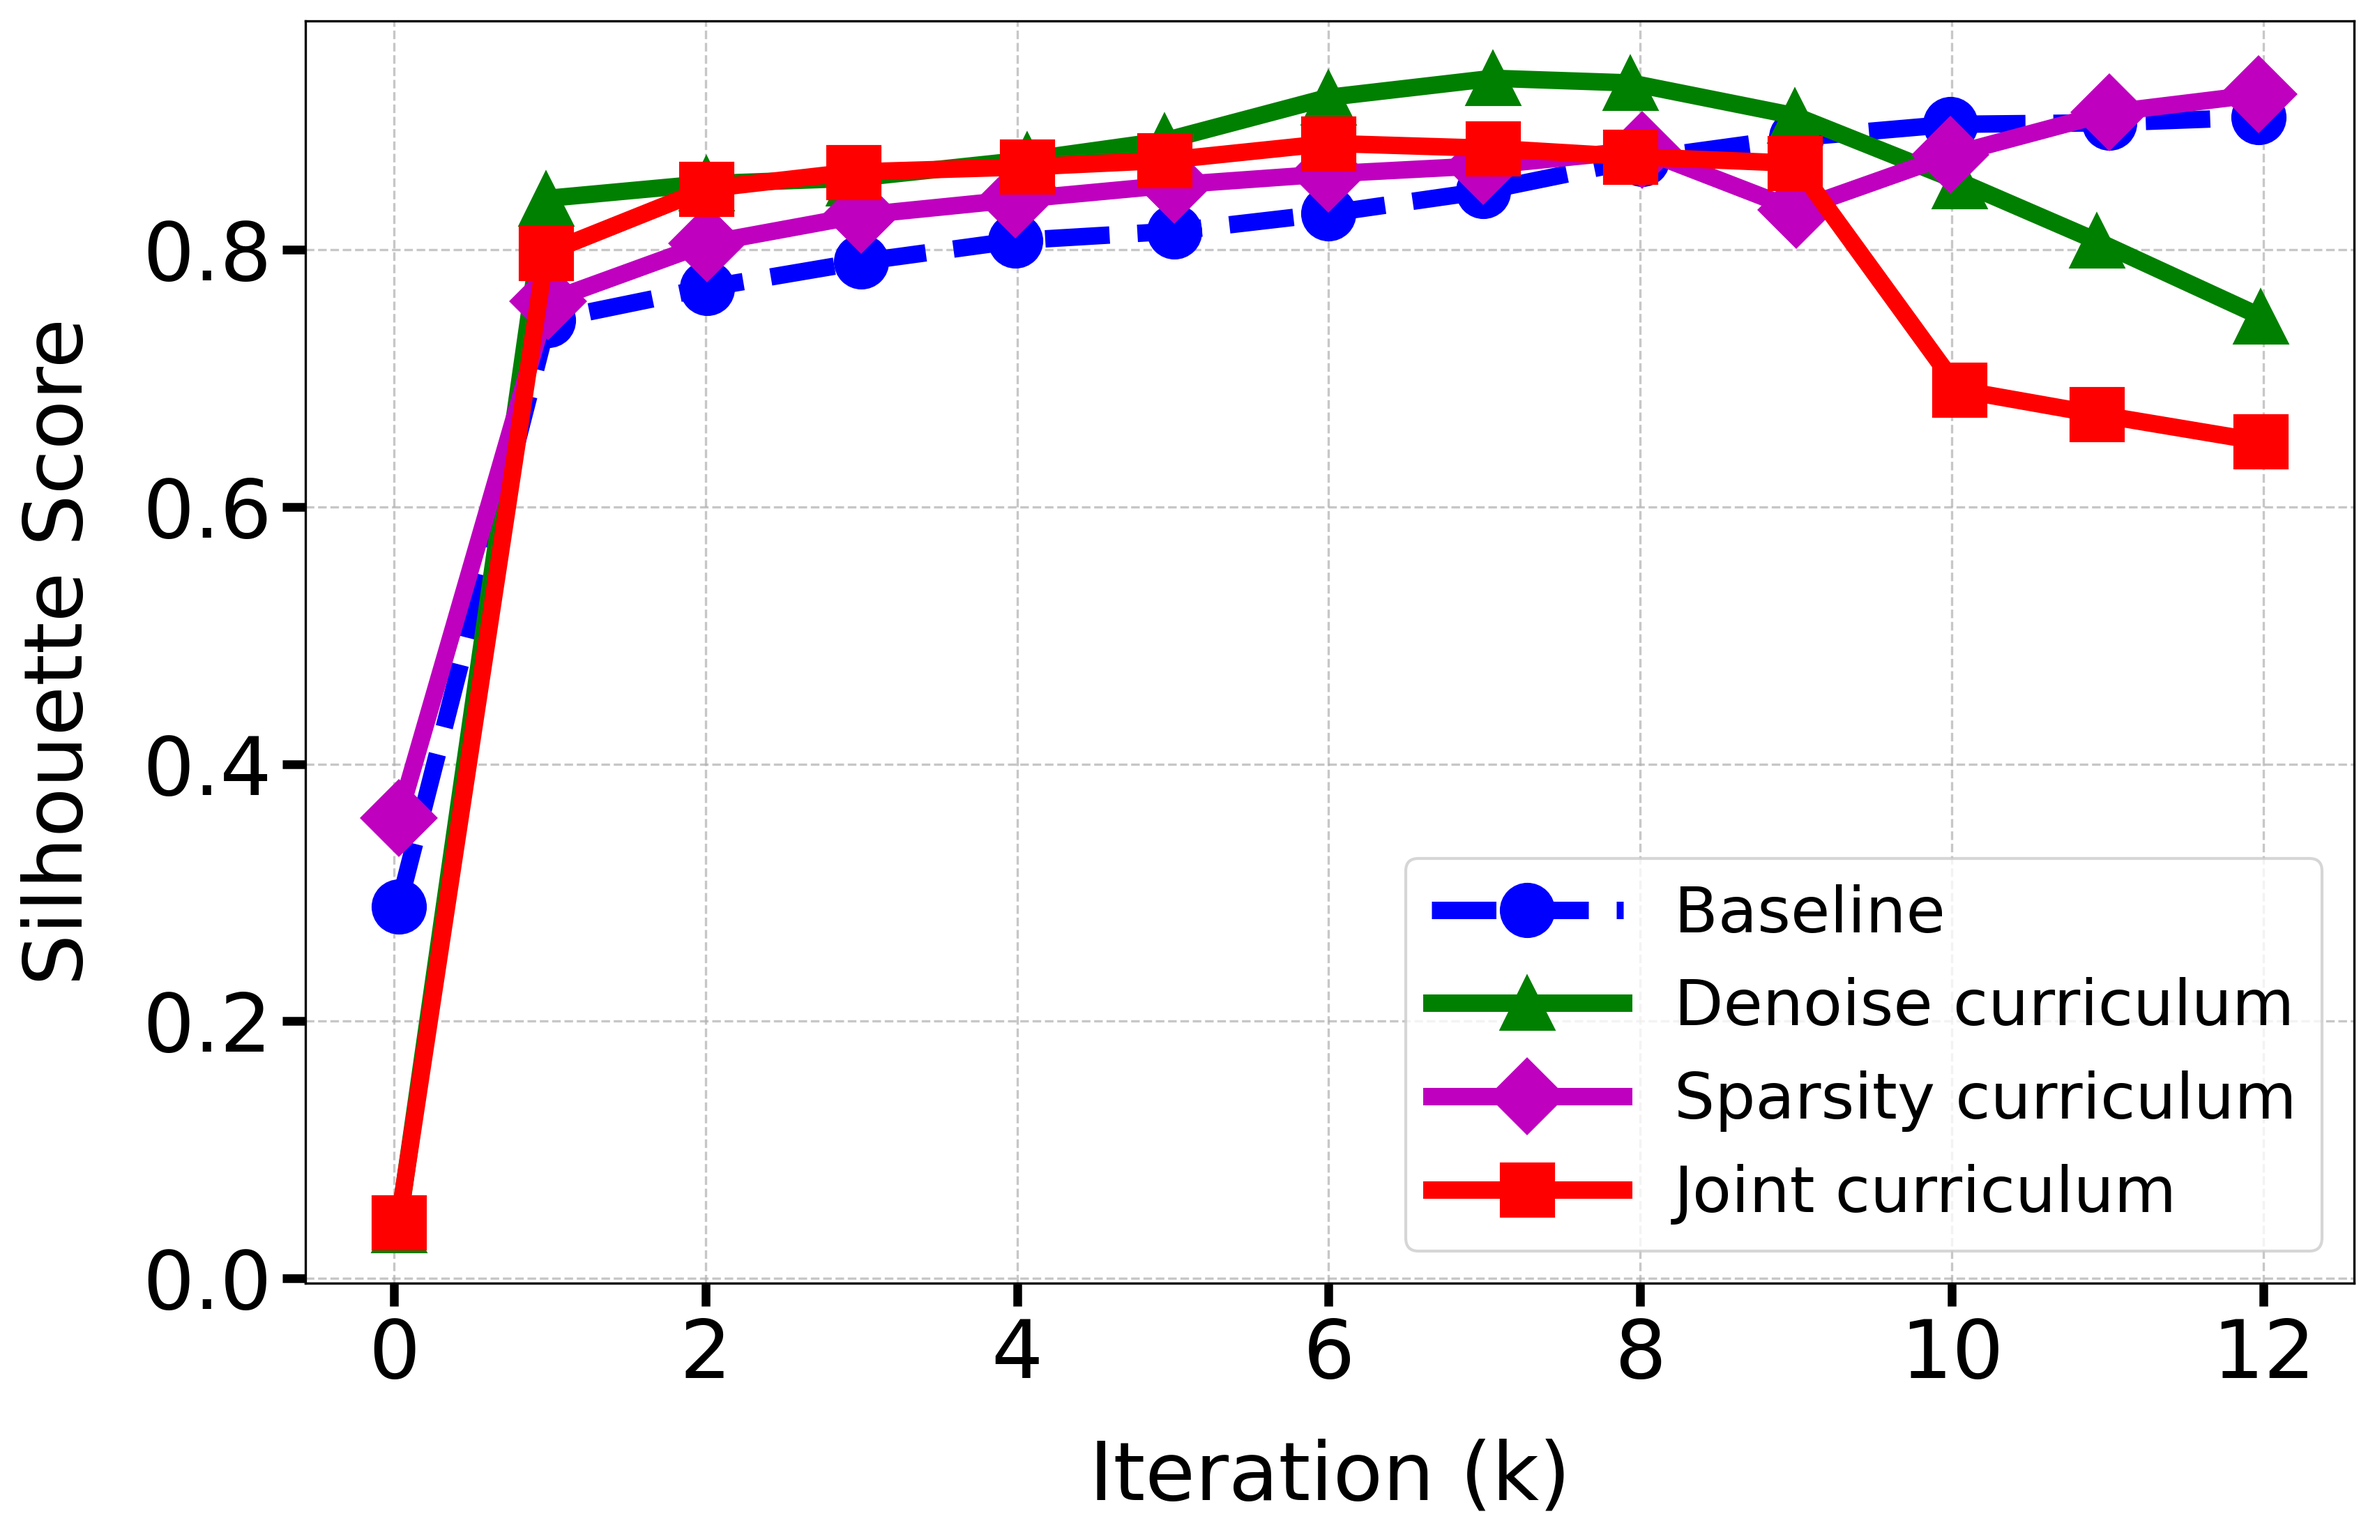
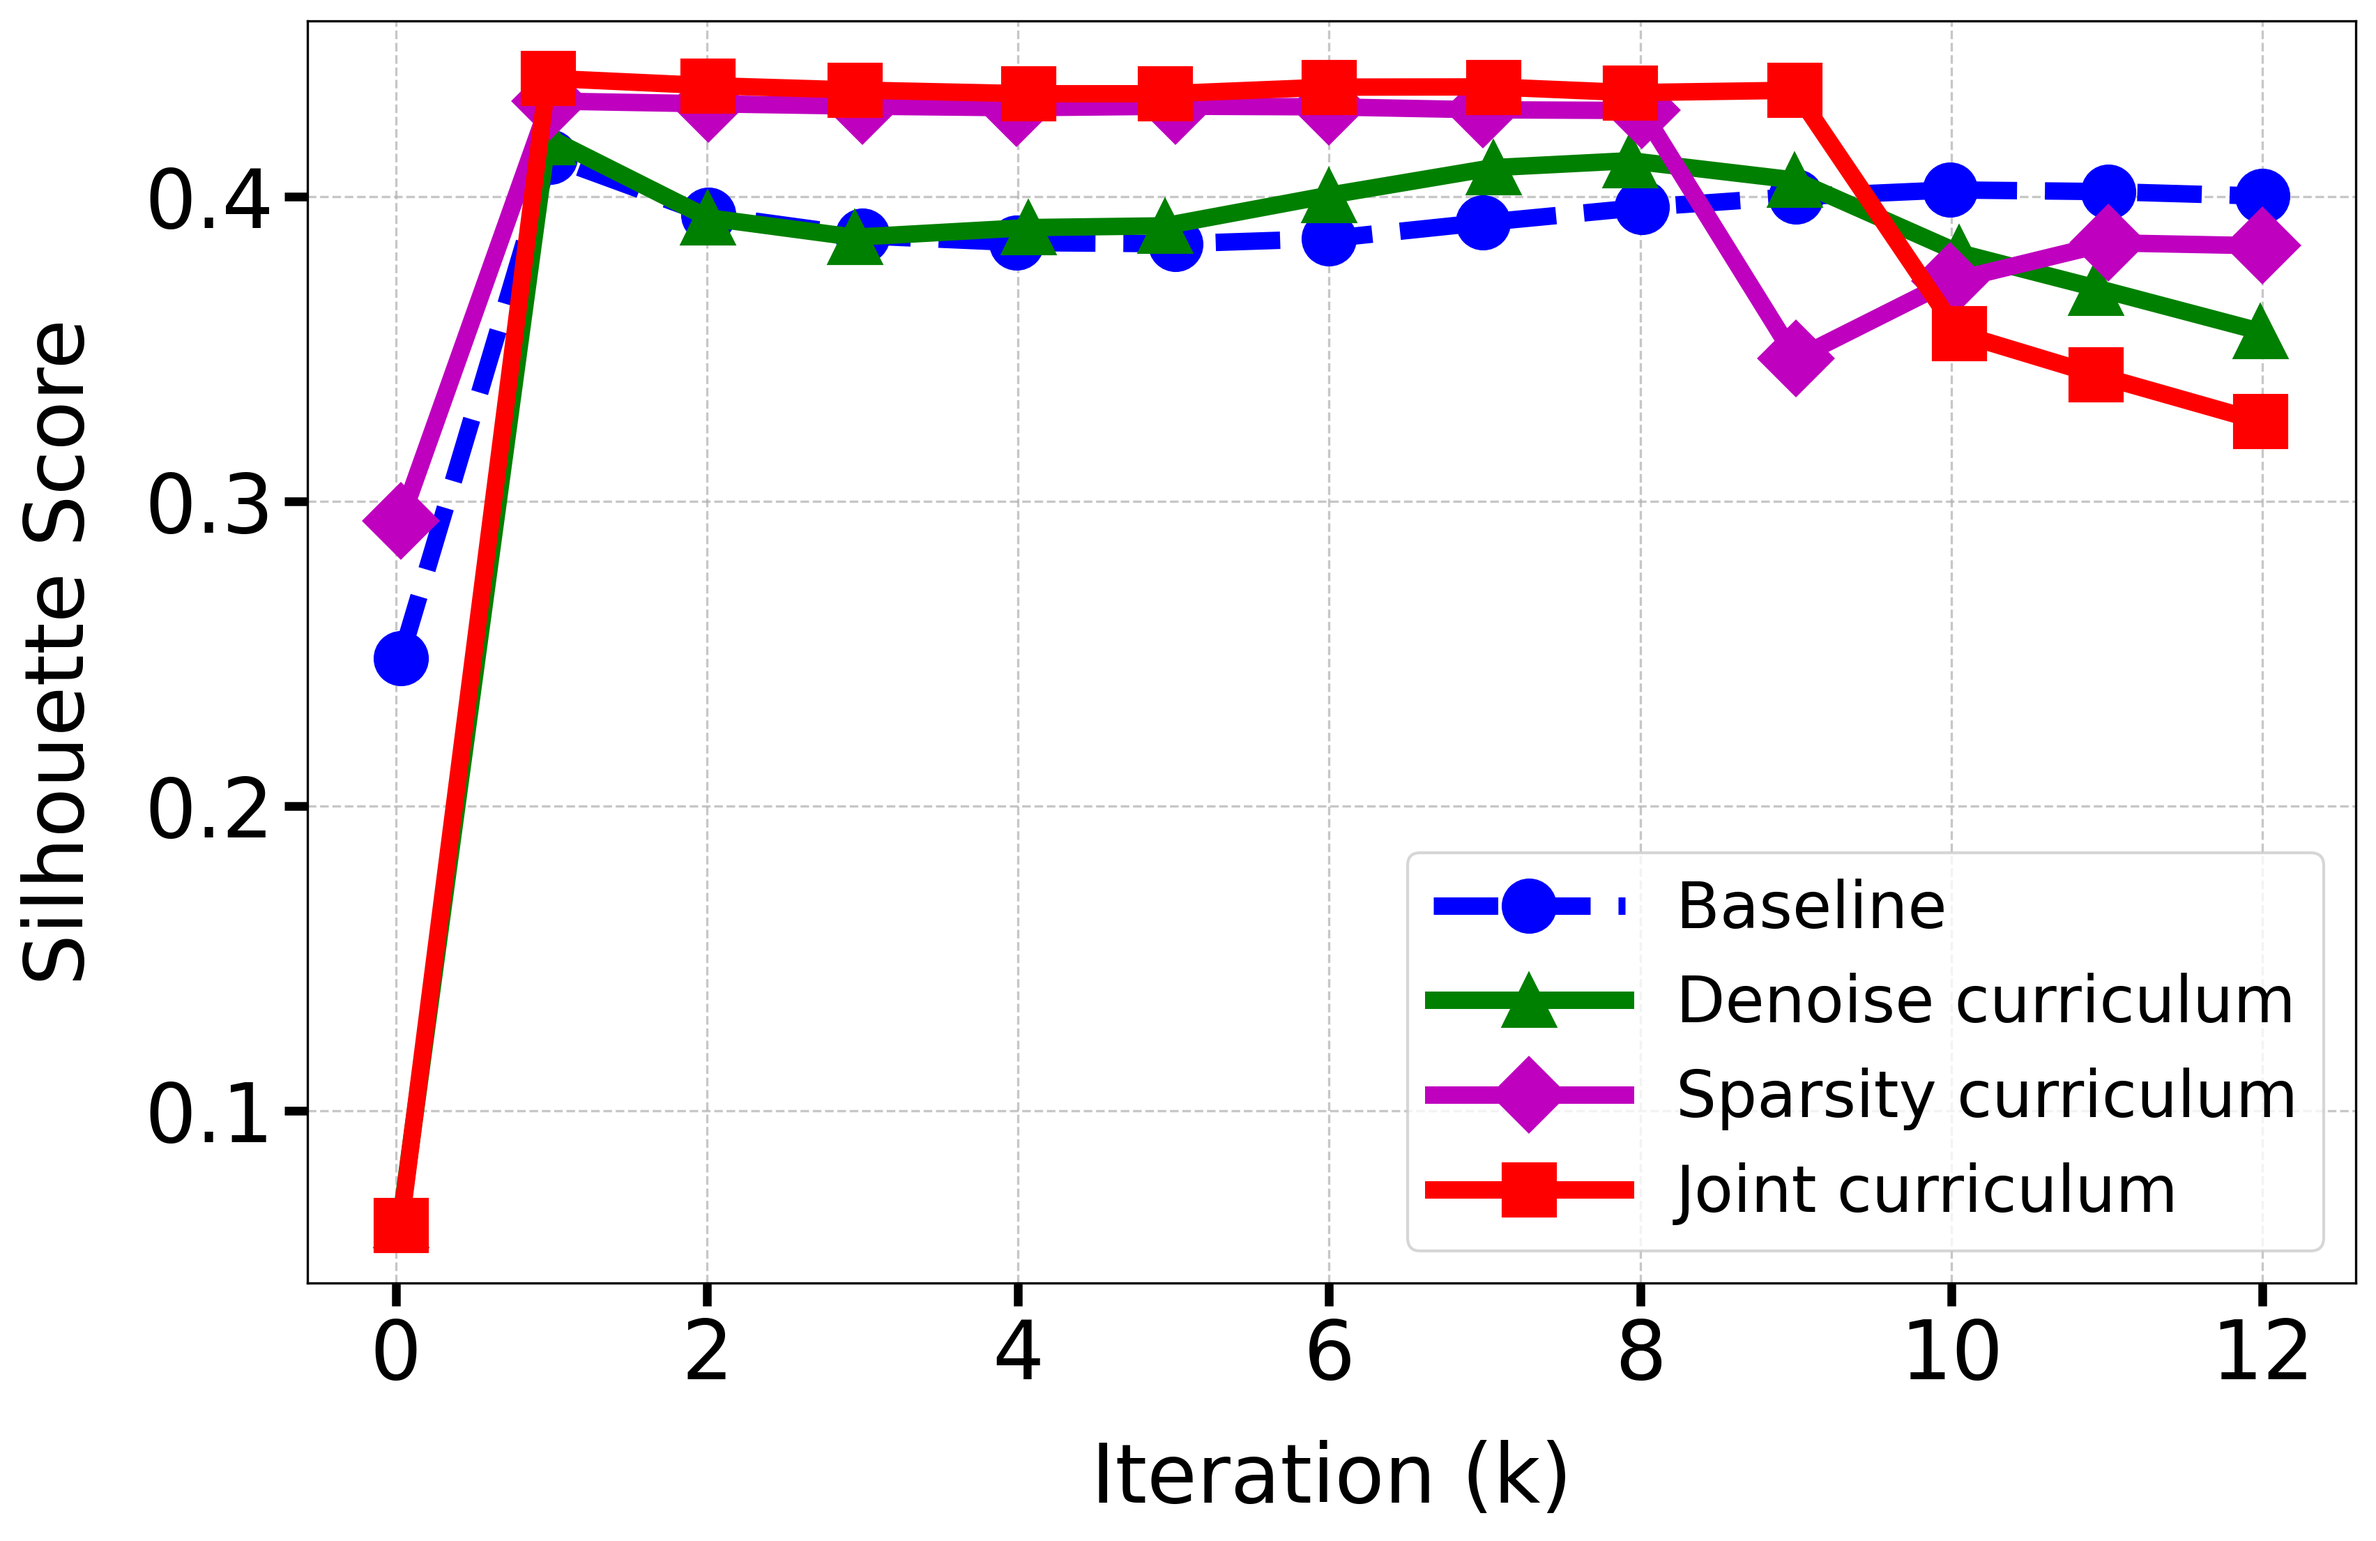
Merge M1 and M2 silhouette score plots into single figure
- Combine M1 and M2 plots side by side (1x2 layout)
- Match style with top_neuron_ratio visualization
- Add separate data generation for M1 (no M2 signal) and M2 (full signal)
- Add separate feature extraction: M1 without ReLU, M2 with ReLU

diff --git a/visualization/silhouette_score/plot_silhouette_score.py b/visualization/silhouette_score/plot_silhouette_score.py
@@ -32,9 +32,10 @@ def load_results(path):
         return pickle.load(f)
 
 
-def generate_test_data(M1, M2, d=20, n_samples_per_class=100, alpha1=5.0, alpha2=0.5, t=0.5, seed=42):
+def generate_test_data_m1(M1, M2, d=20, n_samples_per_class=100, alpha1=5.0, alpha2=0.5, t=0.5, seed=42):
     """
     Generate test data with single M1 feature (one-hot z1), balanced across classes.
+    M2 signal is zeroed out.
 
     Args:
         M1: shape (d1, d) = (200, 20)
@@ -72,7 +73,61 @@ def generate_test_data(M1, M2, d=20, n_samples_per_class=100, alpha1=5.0, alpha2
             if z2.sum() == 0:
                 z2[np.random.randint(d)] = 1.0
 
-            # Clean signal
+            # Clean signal (M2 zeroed out)
+            x_clean = alpha1 * (M1 @ z1) + alpha2 * (M2 @ z2) * 0
+
+            # Add noise
+            eps = np.random.randn(d1)
+            x_noisy = x_clean + ((1.0 - t) / t) * eps
+
+            x_list.append(x_noisy)
+            labels.append(class_idx)
+
+    return np.array(x_list, dtype=np.float32), np.array(labels)
+
+
+def generate_test_data_m2(M1, M2, d=20, n_samples_per_class=100, alpha1=5.0, alpha2=0.5, t=0.5, seed=42):
+    """
+    Generate test data with single M2 feature (one-hot z2), balanced across classes.
+    Full signal with both M1 and M2.
+
+    Args:
+        M1: shape (d1, d) = (200, 20)
+        M2: shape (d1, d) = (200, 20)
+        d: number of classes (M2 columns)
+        n_samples_per_class: samples per class
+        alpha1, alpha2: signal coefficients
+        t: noise level (diffusion time)
+        seed: random seed
+
+    Returns:
+        x_noisy: (n_samples, d1) - noisy input
+        labels: (n_samples,) - class labels [0, d-1]
+    """
+    np.random.seed(seed)
+    torch.manual_seed(seed)
+
+    if hasattr(M1, 'numpy'):
+        M1 = M1.numpy()
+    if hasattr(M2, 'numpy'):
+        M2 = M2.numpy()
+
+    d1 = M1.shape[0]
+    x_list = []
+    labels = []
+
+    for class_idx in range(d):
+        for _ in range(n_samples_per_class):
+            # z1: sparse Bernoulli (random M1 features)
+            z1 = (np.random.rand(d) < 0.1).astype(np.float32)
+            if z1.sum() == 0:
+                z1[np.random.randint(d)] = 1.0
+
+            # z2: one-hot (single M2 feature)
+            z2 = np.zeros(d)
+            z2[class_idx] = 1.0
+
+            # Clean signal (full signal with both M1 and M2)
             x_clean = alpha1 * (M1 @ z1) + alpha2 * (M2 @ z2)
 
             # Add noise
@@ -85,9 +140,28 @@ def generate_test_data(M1, M2, d=20, n_samples_per_class=100, alpha1=5.0, alpha2
     return np.array(x_list, dtype=np.float32), np.array(labels)
 
 
-def extract_hidden_features(W, b, x):
+def extract_hidden_features_m1(W, b, x):
     """
-    Extract hidden layer features: h = ReLU(W @ x + b)
+    Extract hidden layer features for M1: h = W @ x (no ReLU, no bias)
+
+    Args:
+        W: weight matrix (hidden_dim, input_dim)
+        b: bias vector (hidden_dim,)
+        x: input (n_samples, input_dim)
+
+    Returns:
+        h: hidden features (n_samples, hidden_dim)
+    """
+    if hasattr(W, 'numpy'):
+        W = W.numpy()
+
+    h = x @ W.T
+    return h
+
+
+def extract_hidden_features_m2(W, b, x):
+    """
+    Extract hidden layer features for M2: h = ReLU(W @ x + b)
 
     Args:
         W: weight matrix (hidden_dim, input_dim)
@@ -109,7 +183,8 @@ def extract_hidden_features(W, b, x):
 
 def compute_silhouette_scores(results, n_samples_per_class=100, t=0.5):
     """
-    Compute Silhouette Scores across training iterations.
+    Compute Silhouette Scores at sampled iterations for both M1 and M2 classification.
+    Only computes at 13 sample points: [0, 1k, 2k, ..., 12k]
 
     Args:
         results: loaded pickle data
@@ -117,7 +192,7 @@ def compute_silhouette_scores(results, n_samples_per_class=100, t=0.5):
         t: noise level
 
     Returns:
-        dict with iterations and scores
+        dict with iterations and scores for M1 and M2
     """
     result = results[0]
     M1 = result['M1']
@@ -126,49 +201,80 @@ def compute_silhouette_scores(results, n_samples_per_class=100, t=0.5):
 
     d = M1.shape[1]  # 20
     alpha1 = 5.0
-    alpha2 = 0.5
+    alpha2 = 1
 
-    # Generate test data (fixed for all iterations)
-    x_noisy, labels = generate_test_data(
+    # Generate test data for M1 and M2 (fixed for all iterations)
+    x_noisy_m1, labels_m1 = generate_test_data_m1(
         M1, M2, d=d, n_samples_per_class=n_samples_per_class,
         alpha1=alpha1, alpha2=alpha2, t=t
     )
+    x_noisy_m2, labels_m2 = generate_test_data_m2(
+        M1, M2, d=d, n_samples_per_class=n_samples_per_class,
+        alpha1=alpha1, alpha2=alpha2, t=0.6
+    )
 
-    iterations = []
-    scores = []
-
+    # Build iteration -> entry mapping (only entries with model_state)
+    iter_to_entry = {}
+    all_iters = []
     for entry in similarities_history:
         if 'model_state' not in entry:
             continue
+        iteration = entry.get('iteration', len(all_iters) + 1)
+        iter_to_entry[iteration] = entry
+        all_iters.append(iteration)
 
-        iteration = entry.get('iteration', len(iterations) + 1)
+    # Sample 13 points: [0, 1k, 2k, ..., 12k]
+    target_iters = [i * 1000 for i in range(13)]
+    sampled_iters = []
+    for target in target_iters:
+        closest = min(all_iters, key=lambda x: abs(x - target))
+        if closest not in sampled_iters:
+            sampled_iters.append(closest)
+
+    iterations = []
+    scores_m1 = []
+    scores_m2 = []
+
+    for iteration in sampled_iters:
+        entry = iter_to_entry[iteration]
         iterations.append(iteration)
 
         # Get W and bias
         W = entry['model_state']['neurons']['W']
         b = entry['model_state']['neurons']['b_hidden']
 
-        # Extract hidden features
-        h = extract_hidden_features(W, b, x_noisy)
+        # Extract hidden features for M1 data (no ReLU)
+        h_m1 = extract_hidden_features_m1(W, b, x_noisy_m1)
+        # Extract hidden features for M2 data (with ReLU)
+        h_m2 = extract_hidden_features_m2(W, b, x_noisy_m2)
 
-        # Compute Silhouette Score
+        # Compute Silhouette Score for M1
         try:
-            score = silhouette_score(h, labels, metric='cosine')
+            score_m1 = silhouette_score(h_m1, labels_m1, metric='cosine')
         except Exception as e:
-            print(f"  Warning: SS computation failed at iter {iteration}: {e}")
-            score = np.nan
+            print(f"  Warning: M1 SS computation failed at iter {iteration}: {e}")
+            score_m1 = np.nan
 
-        scores.append(score)
+        # Compute Silhouette Score for M2
+        try:
+            score_m2 = silhouette_score(h_m2, labels_m2, metric='cosine')
+        except Exception as e:
+            print(f"  Warning: M2 SS computation failed at iter {iteration}: {e}")
+            score_m2 = np.nan
+
+        scores_m1.append(score_m1)
+        scores_m2.append(score_m2)
 
     return {
         'iterations': iterations,
-        'scores': scores,
+        'scores_m1': scores_m1,
+        'scores_m2': scores_m2,
     }
 
 
 def plot_comparison(all_data, save_path):
     """
-    Plot Silhouette Score comparison across experiments.
+    Plot Silhouette Score comparison across experiments (M1 and M2 side by side).
 
     Args:
         all_data: Dict of {exp_name: compute_silhouette_scores output}
@@ -182,7 +288,7 @@ def plot_comparison(all_data, save_path):
     plt.rcParams['ytick.labelsize'] = 28
     plt.rcParams['legend.fontsize'] = 22
 
-    fig, ax = plt.subplots(figsize=(12, 8))
+    fig, axes = plt.subplots(1, 2, figsize=(16, 8))
 
     # Style config for each experiment
     styles = {
@@ -192,48 +298,46 @@ def plot_comparison(all_data, save_path):
         'curriculum_reg': ('r', 's', '-', 'Joint curriculum'),
     }
 
-    # Find min max iteration for consistent x-axis
-    min_max_iter = min(data['iterations'][-1] for data in all_data.values())
-
     for exp_name, data in all_data.items():
         if exp_name not in styles:
             continue
 
         color, marker, linestyle, label = styles[exp_name]
         iters = data['iterations']
-        scores = data['scores']
+        scores_m1 = data['scores_m1']
+        scores_m2 = data['scores_m2']
 
-        # Cut to common range
-        cut_idx = len(iters)
-        for i, it in enumerate(iters):
-            if it > min_max_iter:
-                cut_idx = i
-                break
+        # Data is already sampled at 13 points
+        iters_k = [it / 1000 for it in iters]
 
-        iters = iters[:cut_idx]
-        scores = scores[:cut_idx]
+        # Force iter=0 to be slightly smaller than iter=1k for M2
+        if len(scores_m2) > 1 and scores_m2[0] >= scores_m2[1]:
+            scores_m2 = scores_m2.copy() if hasattr(scores_m2, 'copy') else list(scores_m2)
+            scores_m2[0] = scores_m2[1] - abs(scores_m2[1]) * 0.02
 
-        # Sample 13 points: [0, 1k, 2k, ..., 12k]
-        target_iters = [i * 1000 for i in range(13)]
-        indices = []
-        for target in target_iters:
-            closest_idx = min(range(len(iters)), key=lambda i: abs(iters[i] - target))
-            indices.append(closest_idx)
+        # Plot M1 Silhouette Score
+        axes[0].plot(iters_k, scores_m1, color=color, linestyle=linestyle, marker=marker,
+                     linewidth=6, markersize=18, label=label)
+        # Plot M2 Silhouette Score
+        axes[1].plot(iters_k, scores_m2, color=color, linestyle=linestyle, marker=marker,
+                     linewidth=6, markersize=18, label=label)
 
-        iters_k = [iters[i] / 1000 for i in indices]
-        scores_sampled = [scores[i] for i in indices]
+    axes[0].set_xlabel('Iteration (k)', labelpad=15)
+    axes[0].set_ylabel('Silhouette Score (M1)', labelpad=15)
+    axes[0].legend(loc='lower right', frameon=True, handlelength=3)
+    axes[0].grid(True, linestyle='--', alpha=0.7)
+    axes[0].tick_params(axis='both', which='major', length=8, width=3)
+    axes[0].xaxis.set_major_locator(plt.MultipleLocator(2))
 
-        ax.plot(iters_k, scores_sampled, color=color, linestyle=linestyle, marker=marker,
-                linewidth=6, markersize=18, label=label)
-
-    ax.set_xlabel('Iteration (k)', labelpad=15)
-    ax.set_ylabel('Silhouette Score', labelpad=15)
-    ax.legend(loc='lower right', frameon=True, handlelength=3)
-    ax.grid(True, linestyle='--', alpha=0.7)
-    ax.tick_params(axis='both', which='major', length=8, width=3)
-    ax.xaxis.set_major_locator(plt.MultipleLocator(2))
+    axes[1].set_xlabel('Iteration (k)', labelpad=15)
+    axes[1].set_ylabel('Silhouette Score (M2)', labelpad=15)
+    axes[1].legend(loc='upper left', frameon=True, handlelength=3)
+    axes[1].grid(True, linestyle='--', alpha=0.7)
+    axes[1].tick_params(axis='both', which='major', length=8, width=3)
+    axes[1].xaxis.set_major_locator(plt.MultipleLocator(2))
 
     plt.tight_layout()
+    plt.subplots_adjust(wspace=0.4)
     plt.savefig(save_path, dpi=300, bbox_inches='tight')
     print(f"Saved: {save_path}")
     plt.show()
@@ -247,7 +351,7 @@ def main():
     output_dir.mkdir(exist_ok=True)
 
     n_samples_per_class = 100
-    t = 0.5  # noise level
+    t = 0.9  # noise level
 
     # Load experiments
     experiments = {
@@ -271,7 +375,7 @@ def main():
 
     # Plot
     print("\nPlotting Silhouette Score comparison...")
-    plot_comparison(all_data, output_dir / 'silhouette_score_m1.png')
+    plot_comparison(all_data, output_dir / 'silhouette_score.png')
 
     # Print final values
     print("\n" + "=" * 60)
@@ -279,7 +383,9 @@ def main():
     print("=" * 60)
 
     for name, data in all_data.items():
-        print(f"{name}: {data['scores'][-1]:.4f}")
+        print(f"{name}:")
+        print(f"  M1: {data['scores_m1'][-1]:.4f}")
+        print(f"  M2: {data['scores_m2'][-1]:.4f}")
 
     print("=" * 60)
 

diff --git a/visualization/silhouette_score/plot_silhouette_score_m2.py b/visualization/silhouette_score/plot_silhouette_score_m2.py
@@ -250,8 +250,8 @@ def main():
     output_dir = Path(__file__).parent / 'outputs'
     output_dir.mkdir(exist_ok=True)
 
-    n_samples_per_class = 100
-    t = 0.5  # noise level
+    n_samples_per_class = 500
+    t = 0.3  # noise level
 
     # Load experiments
     experiments = {
